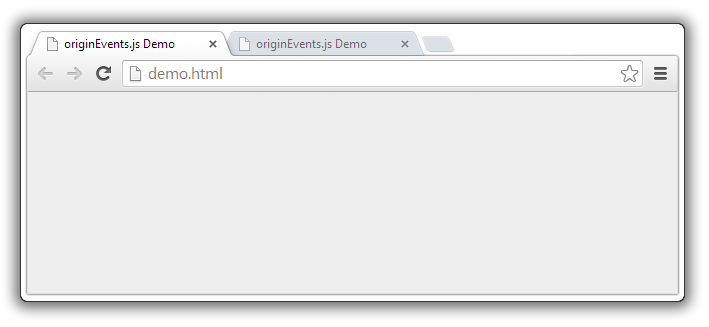
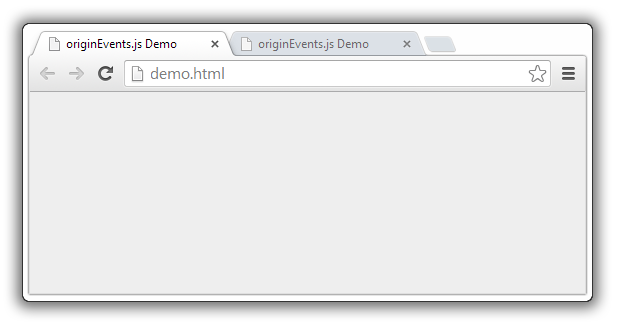
slimmer main content column

Changed region(s): [[0.0, 0.0612, 0.7391, 0.948], [0.8622, 0.0612, 0.9854, 0.9174]]

diff --git a/docs/intro_site/index.html b/docs/intro_site/index.html
@@ -37,10 +37,10 @@
         <p style="margin-bottom:6px;"><strong>demo.html</strong> is running in 2 individual iframes below. Click on the buttons to fire events from either page. You can also <a href="demo.html" target="_blank">open demo.html</a> into multiple tabs in your browser for a more convincing demonstration.</p>
 
         <div class="demoDiv demoDiv1">
-          <iframe src="demo.html" width="650px" height="202px"></iframe>
+          <iframe src="demo.html" width="557px" height="202px"></iframe>
         </div>
         <div class="demoDiv demoDiv2">
-          <iframe src="demo.html" width="650px" height="202px"></iframe>
+          <iframe src="demo.html" width="557px" height="202px"></iframe>
         </div>
 
 <!-- 

diff --git a/docs/intro_site/css/styles.css b/docs/intro_site/css/styles.css
@@ -48,7 +48,7 @@ a small {
 }
 
 .wrapper {
-  width:1005px;
+  width:900px;
   xmargin:0 auto;
 }
 
@@ -164,7 +164,7 @@ header ul a strong {
 }
 
 section {
-  width:683px;
+  width:593px;
   float:right;
   padding-bottom:7px;
   padding-top:8px;
@@ -196,13 +196,13 @@ iframe {
   border: 0px solid #CCC;
   position: absolute;
   top: 92px;
-  left: 27px;
+  left: 29px;
 }
 
 .demoDiv {
   position: relative;
   height:320px;
-  width: 708px;
+  width: 615px;
   margin-left:0px;
 }
 
@@ -215,7 +215,7 @@ iframe {
 }
 
 section > * {
-  margin-left:20px;
+  margin-left:23px;
 }
 
 @media print, screen and (max-width: 960px) {

diff --git a/docs/intro_site/demo.html b/docs/intro_site/demo.html
@@ -5,6 +5,10 @@
     <style>
       body {
         background: #eee;
+        user-select:none;
+        -webkit-user-select:none;
+        -moz-user-select:none;
+        -ms-user-select:none;
       }
 
       button {
@@ -71,12 +75,12 @@
 
       #output {
         float:right;
-        width: 480px;
+        width: 360px;
         padding-top: 4px;
       }
 
       .wrapper {
-        width: 600px;
+        width: 480px;
       }
     </style>
   </head>
